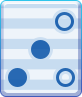
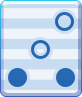
fix some issues, add guide when game start

Changed region(s): [[0.7073, 0.7113, 0.878, 0.866], [0.4146, 0.433, 0.5854, 0.5876]]

diff --git a/Classes/model/GameAnim.cpp b/Classes/model/GameAnim.cpp
@@ -38,7 +38,7 @@ YanWangAnim::play()
         role->idle();
         
         gGameScene->runAction(ScreenShake::create(.5, 5));
-        gGameLayer->gameMenu->updateHealth(*enemy, hp, maxhp);
+        gGameMenu->updateHealth(*enemy, hp, maxhp);
     }, role->role, enemy, hp, enemy->maxHp) ), nullptr));
     /*
     scene->sonic->getEmitter()->resetSystem();
@@ -63,7 +63,6 @@ WuChangAnim::play()
     role->role->stopAllActions();
     role->role->runAction(Sequence::create(role->role->attackAction,
                                            CallFunc::create(std::bind([=](RoleSprite* role){
-        base::Singleton<ActionQueue>::get()->playNext();
         role->idle();
     }, role->role) ), cb,nullptr));
     
@@ -85,7 +84,7 @@ MengPoAnim::play()
         base::Singleton<ActionQueue>::get()->playNext();
         role->idle();
         
-        gGameLayer->gameMenu->updateHealth(*self, hp, maxhp);
+        gGameMenu->updateHealth(*self, hp, maxhp);
     }, role->role, self, hp, self->maxHp) ), cb,nullptr));
 }
 void
@@ -112,7 +111,7 @@ AnubisAnim::play()
         base::Singleton<ActionQueue>::get()->playNext();
         role->idle();
         
-        gGameLayer->gameMenu->updateHealth(*self, hp, maxhp);
+        gGameMenu->updateHealth(*self, hp, maxhp);
     }, role->role, enemy, hp, enemy->maxHp) ),nullptr));
     gNotificationLayer->onError(StringUtils::format("胡狼 hurt: %d",hurt));
 }
@@ -128,7 +127,7 @@ PharaohAnim::play()
         base::Singleton<ActionQueue>::get()->playNext();
         role->idle();
         
-        gGameLayer->gameMenu->updateHealth(*self, hp, maxhp);
+        gGameMenu->updateHealth(*self, hp, maxhp);
     }, role->role, self, hp, self->maxHp) ),nullptr));
     gNotificationLayer->onError(StringUtils::format("法老 恢复: %d",heal));
     
@@ -145,7 +144,7 @@ SphinxAnim::play()
         role->idle();
         
         gGameScene->runAction(ScreenShake::create(.5, 5));
-        gGameLayer->gameMenu->updateHealth(*enemy, hp, maxhp);
+        gGameMenu->updateHealth(*enemy, hp, maxhp);
     }, role->role, enemy, hp, enemy->maxHp) ), nullptr));
 }
 void
@@ -174,7 +173,7 @@ LinLuAnim::play()
         role->idle();
         
         gGameScene->runAction(ScreenShake::create(.5, 5));
-        gGameLayer->gameMenu->updateHealth(*enemy, hp, maxhp);
+        gGameMenu->updateHealth(*enemy, hp, maxhp);
     }, role->role, enemy, hp, enemy->maxHp) ), nullptr));
     gNotificationLayer->onError(StringUtils::format("LinLuAnim hurt: %d", hurt));
 }
@@ -199,7 +198,7 @@ JiShenAnim::play()
         role->idle();
         
         gGameScene->runAction(ScreenShake::create(.5, 5));
-        gGameLayer->gameMenu->updateHealth(*self, hp, maxhp);
+        gGameMenu->updateHealth(*self, hp, maxhp);
     }, role->role, self, hp, self->maxHp) ), nullptr));
     gNotificationLayer->onError(StringUtils::format("JiShenAnim heal: %d",this->heal));
 }
@@ -224,7 +223,7 @@ KnightAnim::play()
         role->idle();
         
         gGameScene->runAction(ScreenShake::create(.5, 5));
-        gGameLayer->gameMenu->updateHealth(*enemy, hp, maxhp);
+        gGameMenu->updateHealth(*enemy, hp, maxhp);
     }, role->role, enemy, hp, enemy->maxHp) ), nullptr));
     gNotificationLayer->onError(StringUtils::format("KnightAnim hurt: %d",this->hurt));
 }
@@ -241,7 +240,7 @@ AngelAnim::play()
         role->idle();
         
         gGameScene->runAction(ScreenShake::create(.5, 5));
-        gGameLayer->gameMenu->updateHealth(*enemy, hp, maxhp);
+        gGameMenu->updateHealth(*enemy, hp, maxhp);
     }, role->role, self, hp, self->maxHp) ), nullptr));
     gNotificationLayer->onError(StringUtils::format("AngelAnim heal: %d",this->heal));
 }
@@ -258,7 +257,7 @@ TitanAnim::play()
         role->idle();
         
         gGameScene->runAction(ScreenShake::create(.5, 5));
-        gGameLayer->gameMenu->updateHealth(*enemy, hp, maxhp);
+        gGameMenu->updateHealth(*enemy, hp, maxhp);
     }, role->role, enemy, hp, enemy->maxHp) ), nullptr));
     gNotificationLayer->onError(StringUtils::format("TitanAnim hurt: %d",this->hurt));
 }

diff --git a/Classes/layer/GameSceneLayer.cpp b/Classes/layer/GameSceneLayer.cpp
@@ -70,7 +70,11 @@ GameSceneLayer::initScene()
     initPlayer(&game->player1,1);
     
     //timer
-    startTimer();
+    //check needing guide
+    if(gGameMenu->checkguidepassed())
+    {
+        startTimer();
+    }
     
     gGameLayer->cameraBoundUpdate(sceneSize, 1.0f);
     gGameLayer->cameraReset();
@@ -122,6 +126,7 @@ GameSceneLayer::reset()
     map=nullptr;
 }
 
+
 void
 GameSceneLayer::startTimer()
 {
@@ -130,7 +135,7 @@ GameSceneLayer::startTimer()
     Game::Player* self = game->getSelf();
     if(self&&self->petrify==0)
     {
-        gGameLayer->gameMenu->showSwapMenu();
+        gGameMenu->showSwapMenu();
     }else
     {
         sendSwap(0);
@@ -145,7 +150,7 @@ GameSceneLayer::startTimer()
     
     if(Game::STATE_BEGIN & game->state)
     {
-        gGameLayer->gameMenu->timerBegin(ROUND_COUNT+self->prolong-self->shorten);
+        gGameMenu->timerBegin(ROUND_COUNT+self->prolong-self->shorten);
         self->prolong=0;
         self->shorten=0;
     }
@@ -154,7 +159,7 @@ GameSceneLayer::startTimer()
 void
 GameSceneLayer::stopTimer()
 {
-    gGameLayer->gameMenu->timerStop();
+    gGameMenu->timerStop();
 }
 
 void
@@ -186,6 +191,7 @@ GameSceneLayer::sendExpired()
 void
 GameSceneLayer::swapAnim(std::vector<int> ids, Game::Player& player)
 {
+    
     if(ids.size() == 8)
     {
         for(int i(0); i<4; i++)
@@ -207,10 +213,11 @@ GameSceneLayer::swapAnim(std::vector<int> ids, Game::Player& player)
         float dur1 = role1->walkTo( role0->getPosition(), 300);
         float dur0 = role0->walkTo( role1->getPosition(), 300);
         //std::swap(roles[swap0].role, roles[swap1].role);
+        log("swapAnim dur1: %g, dur0: %g", dur1, dur0);
         
         auto cb = CallFunc::create(std::bind([=](){
             base::Singleton<ActionQueue>::get()->playNext();
         }) );
-        this->runAction(Sequence::create(DelayTime::create(std::max(dur0, dur1)), cb, nullptr));
+        this->runAction(Sequence::create(DelayTime::create(/*std::max(dur0, dur1)*/2), cb, nullptr));
     }
 }

diff --git a/Classes/layer/GameMenuLayer.cpp b/Classes/layer/GameMenuLayer.cpp
@@ -33,7 +33,7 @@ GameMenuLayer::init()
         return false;
     }
     
-    auto battleMenu = CSLoader::createNode(kBattleMenu);
+    battleMenu = CSLoader::createNode(kBattleMenu);
     battleMenu->setPosition(Vec2::ZERO);
     this->addChild(battleMenu);
     
@@ -245,7 +245,7 @@ SwapBtn::init()
         {
             gGameScene->sendSwap(target->type);
             gGameScene->stopTimer();
-            gGameLayer->gameMenu->showSwapMenu(false);
+            gGameMenu->showSwapMenu(false);
             target->getListener()->setEnabled(false);
             return true;
         }
@@ -306,3 +306,30 @@ GameMenuLayer::updateTimer(float dt)
     }
 }
 
+
+bool
+GameMenuLayer::checkguidepassed()
+{
+    if(base::Singleton<BasisUtil>::get()->getAppBool(AK_GUIDE_PASSED) )
+        return true;
+    //else
+    base::Singleton<BasisUtil>::get()->setAppBool(AK_GUIDE_PASSED, true);
+    red->setPosition(Vec2(0,gVisibleSize.y));
+    blue->setPosition(Vec2::ZERO);
+    
+    auto btnGuide1 = static_cast<ui::Button*>(battleMenu->getChildByName("Button_Guide1"));
+    btnGuide1->setVisible(true);
+    auto btnGuide2 = static_cast<ui::Button*>(battleMenu->getChildByName("Button_Guide2"));
+    auto btnGuide3 = static_cast<ui::Button*>(battleMenu->getChildByName("Button_Guide3"));
+    btnGuide1->addClickEventListener(std::bind([=](Node* btn, Node* next){
+        btn->setVisible(false);
+        next->setVisible(true);}, btnGuide1, btnGuide2));
+    btnGuide2->addClickEventListener(std::bind([=](Node* btn, Node* next){
+        btn->setVisible(false);
+        next->setVisible(true);}, btnGuide2, btnGuide3));
+    btnGuide3->addClickEventListener(std::bind([=](Node* btn){
+        btn->setVisible(false);
+        gGameScene->startTimer();
+    }, btnGuide3));
+    return false;
+}

diff --git a/Classes/layer/MenuLayer.cpp b/Classes/layer/MenuLayer.cpp
@@ -93,7 +93,7 @@ MenuLayer::gameEvent(rapidjson::Document &doc)
         navLayer->setVisible(false);
         game_->initGame(doc);
         
-        gGameLayer->gameMenu->initGameMenu();//before scene because of removing previous oper btn
+        gGameMenu->initGameMenu();//before scene because of removing previous oper btn
         gGameScene->initScene();
         
         gGameLayer->setVisible(true);
@@ -122,7 +122,7 @@ MenuLayer::gameEndEvent(rapidjson::Document &doc)
             queue->addQueue(boost::bind(&GameEndLayer::show, uid.GetInt64(), score.GetInt()));
         }else
         {
-            gGameLayer->gameMenu->timerStop();
+            gGameMenu->timerStop();
             GameEndLayer::show(uid.GetInt64(), score.GetInt());
         }
     }

diff --git a/Classes/layer/LoadingLayer.cpp b/Classes/layer/LoadingLayer.cpp
@@ -93,7 +93,7 @@ LoadingLayer::update(float dt)
             gScene->addChild(gGameLayer,1);
             
             //======registEvent======
-            codechiev::base::Singleton<CmdCallback>::get()->registEvent("event.game.expired", std::bind( &GameMenuLayer::expiredEvent, gGameLayer->gameMenu, std::placeholders::_1));
+            codechiev::base::Singleton<CmdCallback>::get()->registEvent("event.game.expired", std::bind( &GameMenuLayer::expiredEvent, gGameMenu, std::placeholders::_1));
             //======registEvent======
             base::Singleton<CmdCallback>::get()->registEvent("event.game.combat", std::bind( &GameSceneLayer::combatEvent, gGameScene, std::placeholders::_1));
         }

diff --git a/Classes/layer/GameLayer.cpp b/Classes/layer/GameLayer.cpp
@@ -19,6 +19,7 @@ Scene *gScene(nullptr);
 GameLayer *gGameLayer(nullptr);
 MenuLayer *gMenuLayer(nullptr);
 GameSceneLayer *gGameScene(nullptr);
+GameMenuLayer *gGameMenu(nullptr);
 NotificationLayer *gNotificationLayer(nullptr);
 
 Scene* createGameScene()
@@ -83,10 +84,10 @@ GameLayer::init()
     this->addChild(gGameScene);
     
     //gameMenu
-    gameMenu = GameMenuLayer::create();
-    gameMenu->setAnchorPoint(Vec2::ZERO);
-    gameMenu->setPosition(Vec2::ZERO);
-    this->addChild(gameMenu);
+    gGameMenu = GameMenuLayer::create();
+    gGameMenu->setAnchorPoint(Vec2::ZERO);
+    gGameMenu->setPosition(Vec2::ZERO);
+    this->addChild(gGameMenu);
 
 	return true;
 }

diff --git a/Classes/layer/GameSceneAnim.cpp b/Classes/layer/GameSceneAnim.cpp
@@ -48,8 +48,8 @@ GameSceneLayer::combatEvent(const Document &doc)
         return;
     }*/
     
-    gGameLayer->gameMenu->removeOperBtn(game->player0, oper0.GetInt());
-    gGameLayer->gameMenu->removeOperBtn(game->player1, oper1.GetInt());
+    gGameMenu->removeOperBtn(game->player0, oper0.GetInt());
+    gGameMenu->removeOperBtn(game->player1, oper1.GetInt());
     
     //log("combatEvent resetBuff");
     game->player0.resetBuff();
@@ -222,6 +222,8 @@ GameSceneLayer::combatAnimQueue()
         game->animDeq.erase(it);
         it = game->animDeq.begin();
     }
+    log("ActionQueue size: %lu", queue->actionQueue.size());
+    
 }
 
 void

diff --git a/Classes/model/ActionQueue.hpp b/Classes/model/ActionQueue.hpp
@@ -36,6 +36,7 @@ ActionQueue::addQueue(const action_func &func)
 void inline
 ActionQueue::playNext()
 {
+    cocos2d::log("ActionQueue playNext: %lu", actionQueue.size());
     if(actionQueue.size())
     {
         //pop previous
@@ -47,6 +48,7 @@ ActionQueue::playNext()
         action_func& func = actionQueue.front();
         if(func)
         {
+            cocos2d::log("ActionQueue func: %lu", actionQueue.size());
             func();
         }
     }

diff --git a/Classes/layer/GameLayer.h b/Classes/layer/GameLayer.h
@@ -10,6 +10,7 @@ class GameMenuLayer;
 
 extern GameLayer *gGameLayer;
 extern GameSceneLayer *gGameScene;
+extern GameMenuLayer *gGameMenu;
 extern cocos2d::Scene *gScene;
 extern cocos2d::Scene *createGameScene();
 
@@ -34,7 +35,7 @@ public:
     void reset();
 
 	//GameSceneLayer *gameScene;
-    GameMenuLayer *gameMenu;
+    //GameMenuLayer *gameMenu;
     codechiev::Camera camera;
 private:
 	void touchScale(cocos2d::Touch*, cocos2d::Touch*);

diff --git a/Classes/layer/GameMenuLayer.hpp b/Classes/layer/GameMenuLayer.hpp
@@ -31,12 +31,14 @@ public:
     void addSwapMenu(int);
     void expiredEvent(rapidjson::Document &);
     void removeOperBtn(codechiev::Game::Player& ,int);
+    bool checkguidepassed();
 
     //oper_struct blueopers[5];
     //oper_struct redopers[5];
     cocos2d::Sprite* blue;
     cocos2d::Sprite* red;
     cocos2d::Node* ready;
+    cocos2d::Node* battleMenu;
 public:
     void timerBegin(float);
     void timerStop();

diff --git a/Classes/codechiev/BasisUtil.h b/Classes/codechiev/BasisUtil.h
@@ -24,6 +24,7 @@ namespace codechiev
         AK_MUTE,
         AK_VOL,
         Ak_CARD_POS,
+        AK_GUIDE_PASSED,
         AK_TOTAL_SIZE,
     };
     static const char* kAppKeys[AK_TOTAL_SIZE] =
@@ -33,7 +34,8 @@ namespace codechiev
         "deviceId",
         "mute",
         "volumn",
-        "cardposition"
+        "cardposition",
+        "guidepassed"
     };
     
 	class BasisUtil

diff --git a/Classes/codechiev/Network.cpp b/Classes/codechiev/Network.cpp
@@ -26,8 +26,8 @@ Network::connect()
 	wssocket_ = new network::WebSocket();
 
     //"ws://yuyouidea.com:9001/websocket"
-    //"ws://192.168.0.142:9001/websocket"
-	if (!wssocket_->init(*this, "ws://yuyouidea.com:9001/websocket"))
+    //"ws://192.168.0.206:9001/websocket"
+	if (!wssocket_->init(*this, "ws://192.168.0.206:9001/websocket"))
 	{
 		CC_SAFE_DELETE(wssocket_);
 	}
